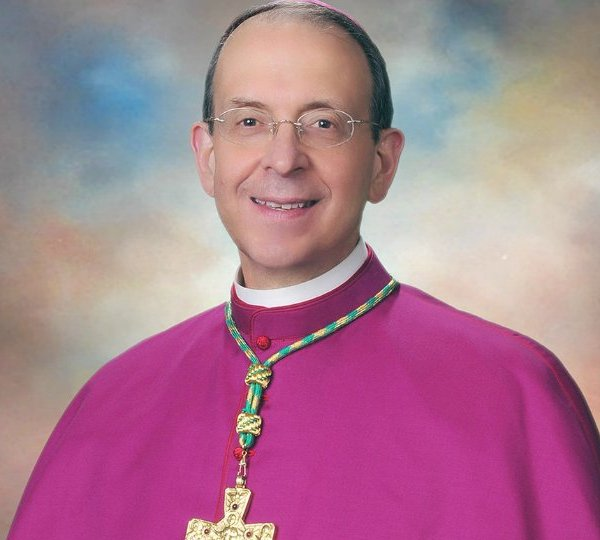
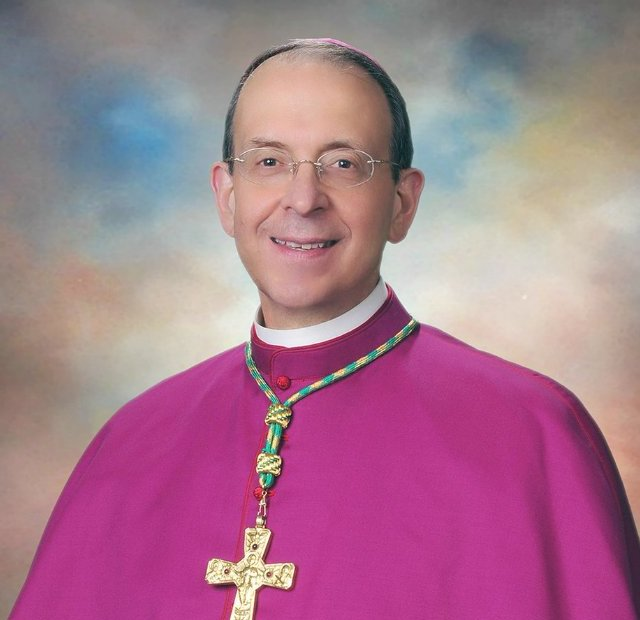
Lori: more headroom in crop, circle up to 90px

diff --git a/index.html b/index.html
@@ -333,7 +333,7 @@
         <div style="margin-bottom:3rem">
             <div style="background:#fff;border:2px solid var(--gold);border-radius:8px;padding:1.75rem 2rem;box-shadow:0 8px 25px -8px rgba(0,0,0,.12);display:flex;align-items:center;gap:2rem;flex-wrap:wrap">
                 <div style="display:flex;align-items:center;gap:1.25rem;flex:1;min-width:260px">
-                    <img src="endorser-abp-lori.jpg" alt="Archbishop William E. Lori" style="width:80px;height:80px;border-radius:50%;object-fit:cover;object-position:center 20%;flex-shrink:0;border:2px solid rgba(201,169,98,.3)" loading="lazy">
+                    <img src="endorser-abp-lori.jpg" alt="Archbishop William E. Lori" style="width:90px;height:90px;border-radius:50%;object-fit:cover;object-position:center 20%;flex-shrink:0;border:2px solid rgba(201,169,98,.3)" loading="lazy">
                     <div>
                         <p style="font-family:'Lato',sans-serif;font-size:.65rem;letter-spacing:.15em;text-transform:uppercase;color:var(--gold-dark);margin-bottom:.35rem">Official Imprimatur — July 2025</p>
                         <p style="font-family:'Libre Baskerville',serif;font-size:.95rem;font-style:italic;color:var(--text);margin-bottom:.4rem">"There is nothing within this work that is contrary to the faith and morals of the Roman Catholic Church."</p>
